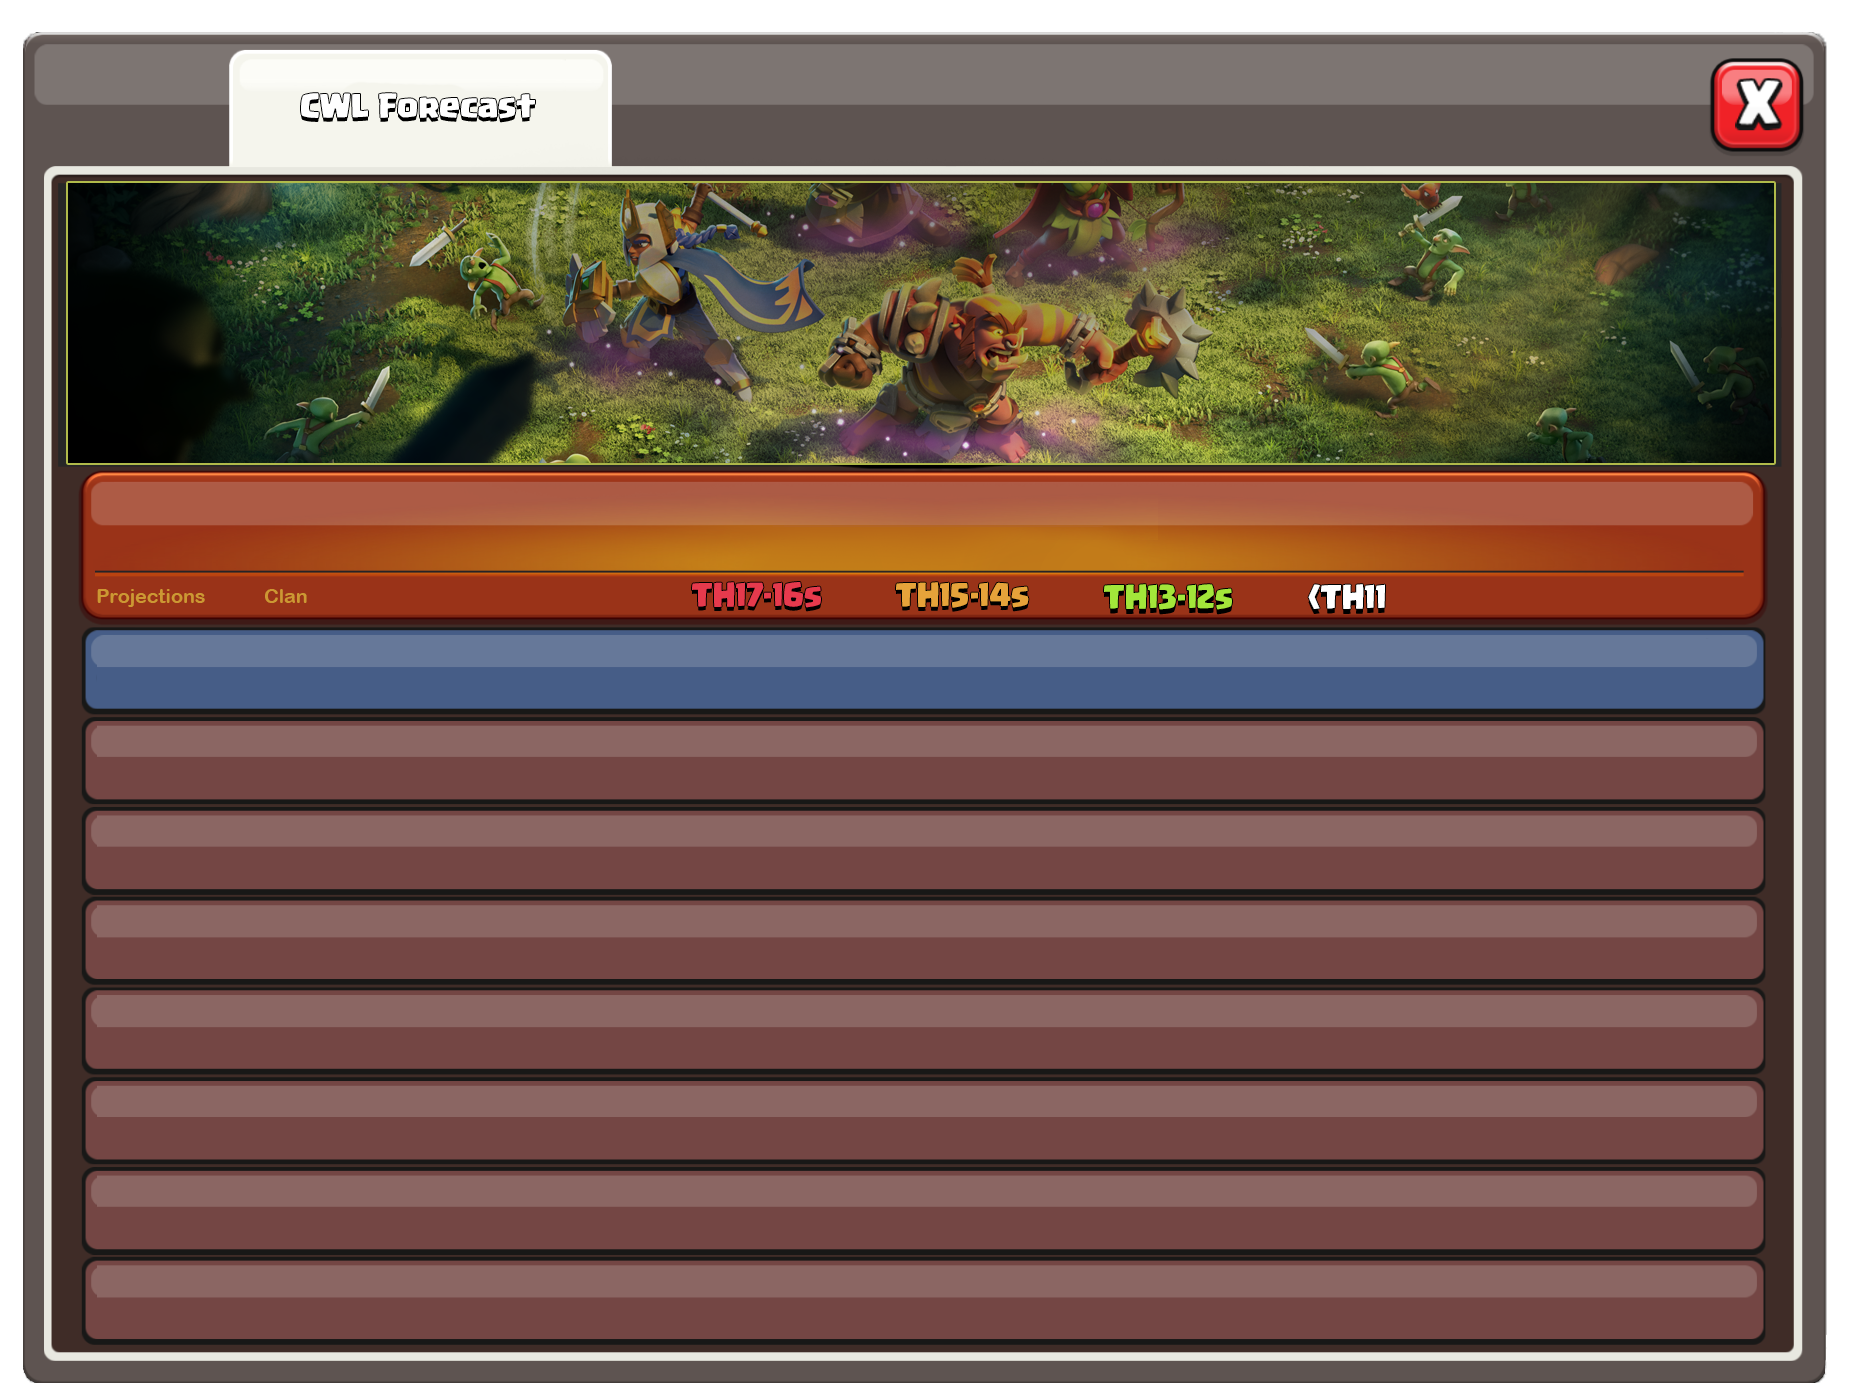
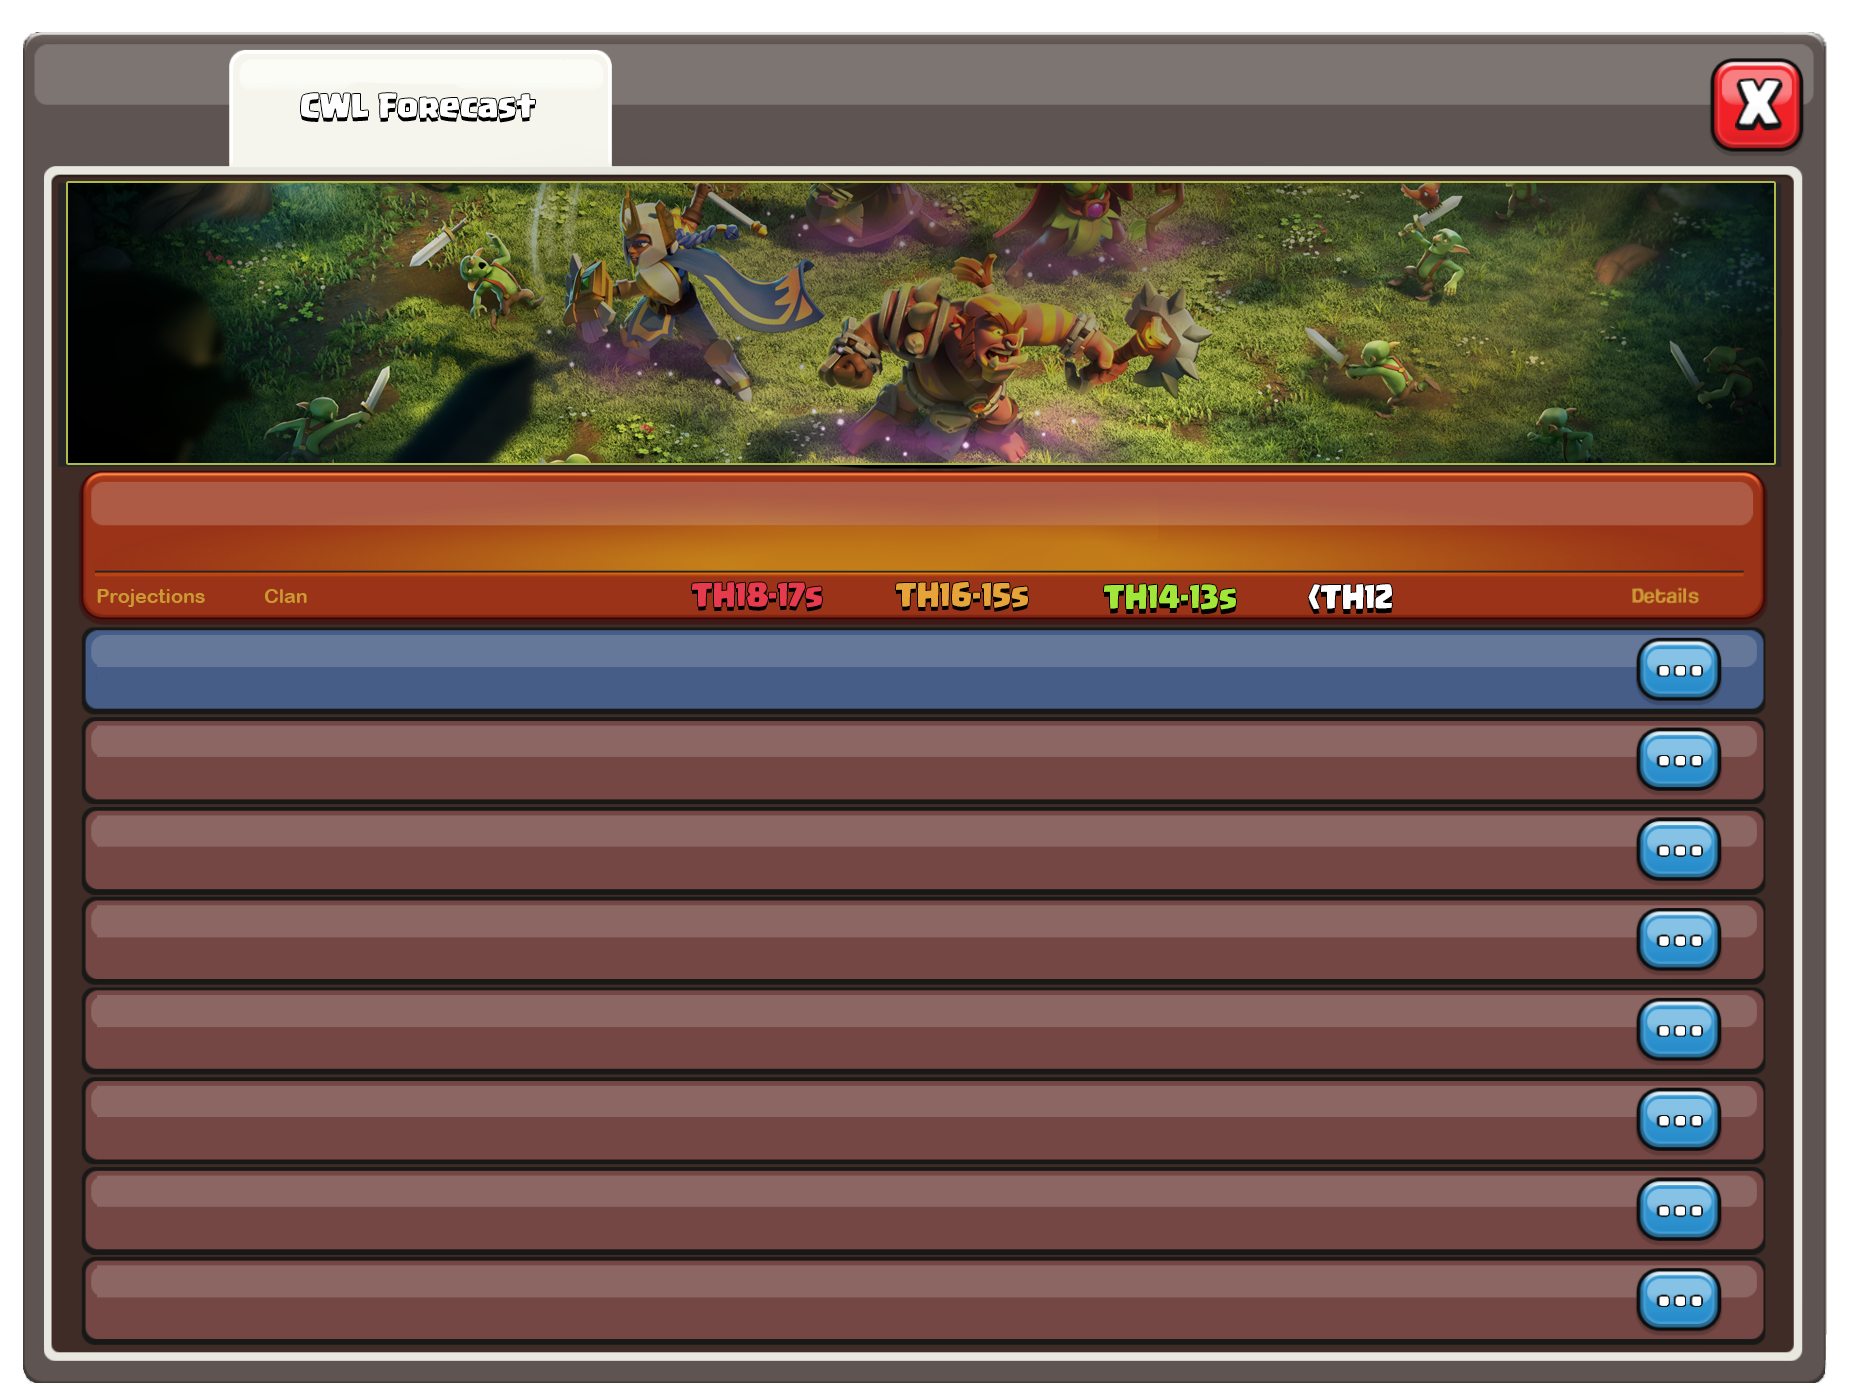
Updated for TH18

diff --git a/commands/cwl.js b/commands/cwl.js
@@ -158,9 +158,9 @@ async function createImage(war) {
         ctx.strokeText(war[i].clan, 320, 670 + (90 * i));
         ctx.fillText(war[i].clan, 320, 670 + (90 * i));
 
-        const TH1617 = (war[i].thData.get(17) || 0) + (war[i].thData.get(16) || 0);
-        const TH1514 = (war[i].thData.get(15) || 0) + (war[i].thData.get(14) || 0);
-        const TH1312 = (war[i].thData.get(13) || 0) + (war[i].thData.get(12) || 0);
+        const upperTh = (war[i].thData.get(18) || 0) + (war[i].thData.get(17) || 0);
+        const midTh = (war[i].thData.get(16) || 0) + (war[i].thData.get(15) || 0);
+        const lowerTh = (war[i].thData.get(14) || 0) + (war[i].thData.get(13) || 0);
 
         // --GROUPED TH COUNTS-- //
         ctx.fillStyle = '#e63a4d';
@@ -170,20 +170,20 @@ async function createImage(war) {
         ctx.lineWidth = 2;
         ctx.shadowOffsetY = 4;
 
-        ctx.strokeText(TH1617, 755, 687 + (90 * i));
-        ctx.fillText(TH1617, 755, 687 + (90 * i));
+        ctx.strokeText(upperTh, 755, 687 + (90 * i));
+        ctx.fillText(upperTh, 755, 687 + (90 * i));
 
         ctx.fillStyle = '#e6a33a';
-        ctx.strokeText(TH1514, 961, 687 + (90 * i));
-        ctx.fillText(TH1514, 961, 687 + (90 * i));
+        ctx.strokeText(midTh, 961, 687 + (90 * i));
+        ctx.fillText(midTh, 961, 687 + (90 * i));
 
         ctx.fillStyle = '#a3e63a';
-        ctx.strokeText(TH1312, 1167, 687 + (90 * i));
-        ctx.fillText(TH1312, 1167, 687 + (90 * i));
+        ctx.strokeText(lowerTh, 1167, 687 + (90 * i));
+        ctx.fillText(lowerTh, 1167, 687 + (90 * i));
 
         ctx.fillStyle = '#ffffff';
-        ctx.strokeText(cwlSize - (TH1617 + TH1514 + TH1312), 1355, 687 + (90 * i));
-        ctx.fillText(cwlSize - (TH1617 + TH1514 + TH1312), 1355, 687 + (90 * i));
+        ctx.strokeText(cwlSize - (upperTh + midTh + lowerTh), 1355, 687 + (90 * i));
+        ctx.fillText(cwlSize - (upperTh + midTh + lowerTh), 1355, 687 + (90 * i));
 
         // --TH SEPERATION-- //
         ctx.fillStyle = '#e63a4d';
@@ -191,16 +191,16 @@ async function createImage(war) {
         
         ctx.lineWidth = 1.5;
         ctx.shadowOffsetY = 3;
-        ctx.strokeText(`(${war[i].thData.get(17) || 0} - ${war[i].thData.get(16) || 0})`, 755, 642 + (90 * i));
-        ctx.fillText(`(${war[i].thData.get(17) || 0} - ${war[i].thData.get(16) || 0})`, 755, 642 + (90 * i));
+        ctx.strokeText(`(${war[i].thData.get(18) || 0} - ${war[i].thData.get(17) || 0})`, 755, 642 + (90 * i));
+        ctx.fillText(`(${war[i].thData.get(18) || 0} - ${war[i].thData.get(17) || 0})`, 755, 642 + (90 * i));
 
         ctx.fillStyle = '#e6a33a';
-        ctx.strokeText(`(${war[i].thData.get(15) || 0} - ${war[i].thData.get(14) || 0})`, 961, 642 + (90 * i));
-        ctx.fillText(`(${war[i].thData.get(15) || 0} - ${war[i].thData.get(14) || 0})`, 961, 642 + (90 * i));
+        ctx.strokeText(`(${war[i].thData.get(16) || 0} - ${war[i].thData.get(15) || 0})`, 961, 642 + (90 * i));
+        ctx.fillText(`(${war[i].thData.get(16) || 0} - ${war[i].thData.get(15) || 0})`, 961, 642 + (90 * i));
 
         ctx.fillStyle = '#a3e63a';
-        ctx.strokeText(`(${war[i].thData.get(13) || 0} - ${war[i].thData.get(12) || 0})`, 1167, 642 + (90 * i));
-        ctx.fillText(`(${war[i].thData.get(13) || 0} - ${war[i].thData.get(12) || 0})`, 1167, 642 + (90 * i));
+        ctx.strokeText(`(${war[i].thData.get(14) || 0} - ${war[i].thData.get(13) || 0})`, 1167, 642 + (90 * i));
+        ctx.fillText(`(${war[i].thData.get(14) || 0} - ${war[i].thData.get(13) || 0})`, 1167, 642 + (90 * i));
 
         if(war[i].isEnemy) {
             ctx.fillStyle = '#ffffff';
